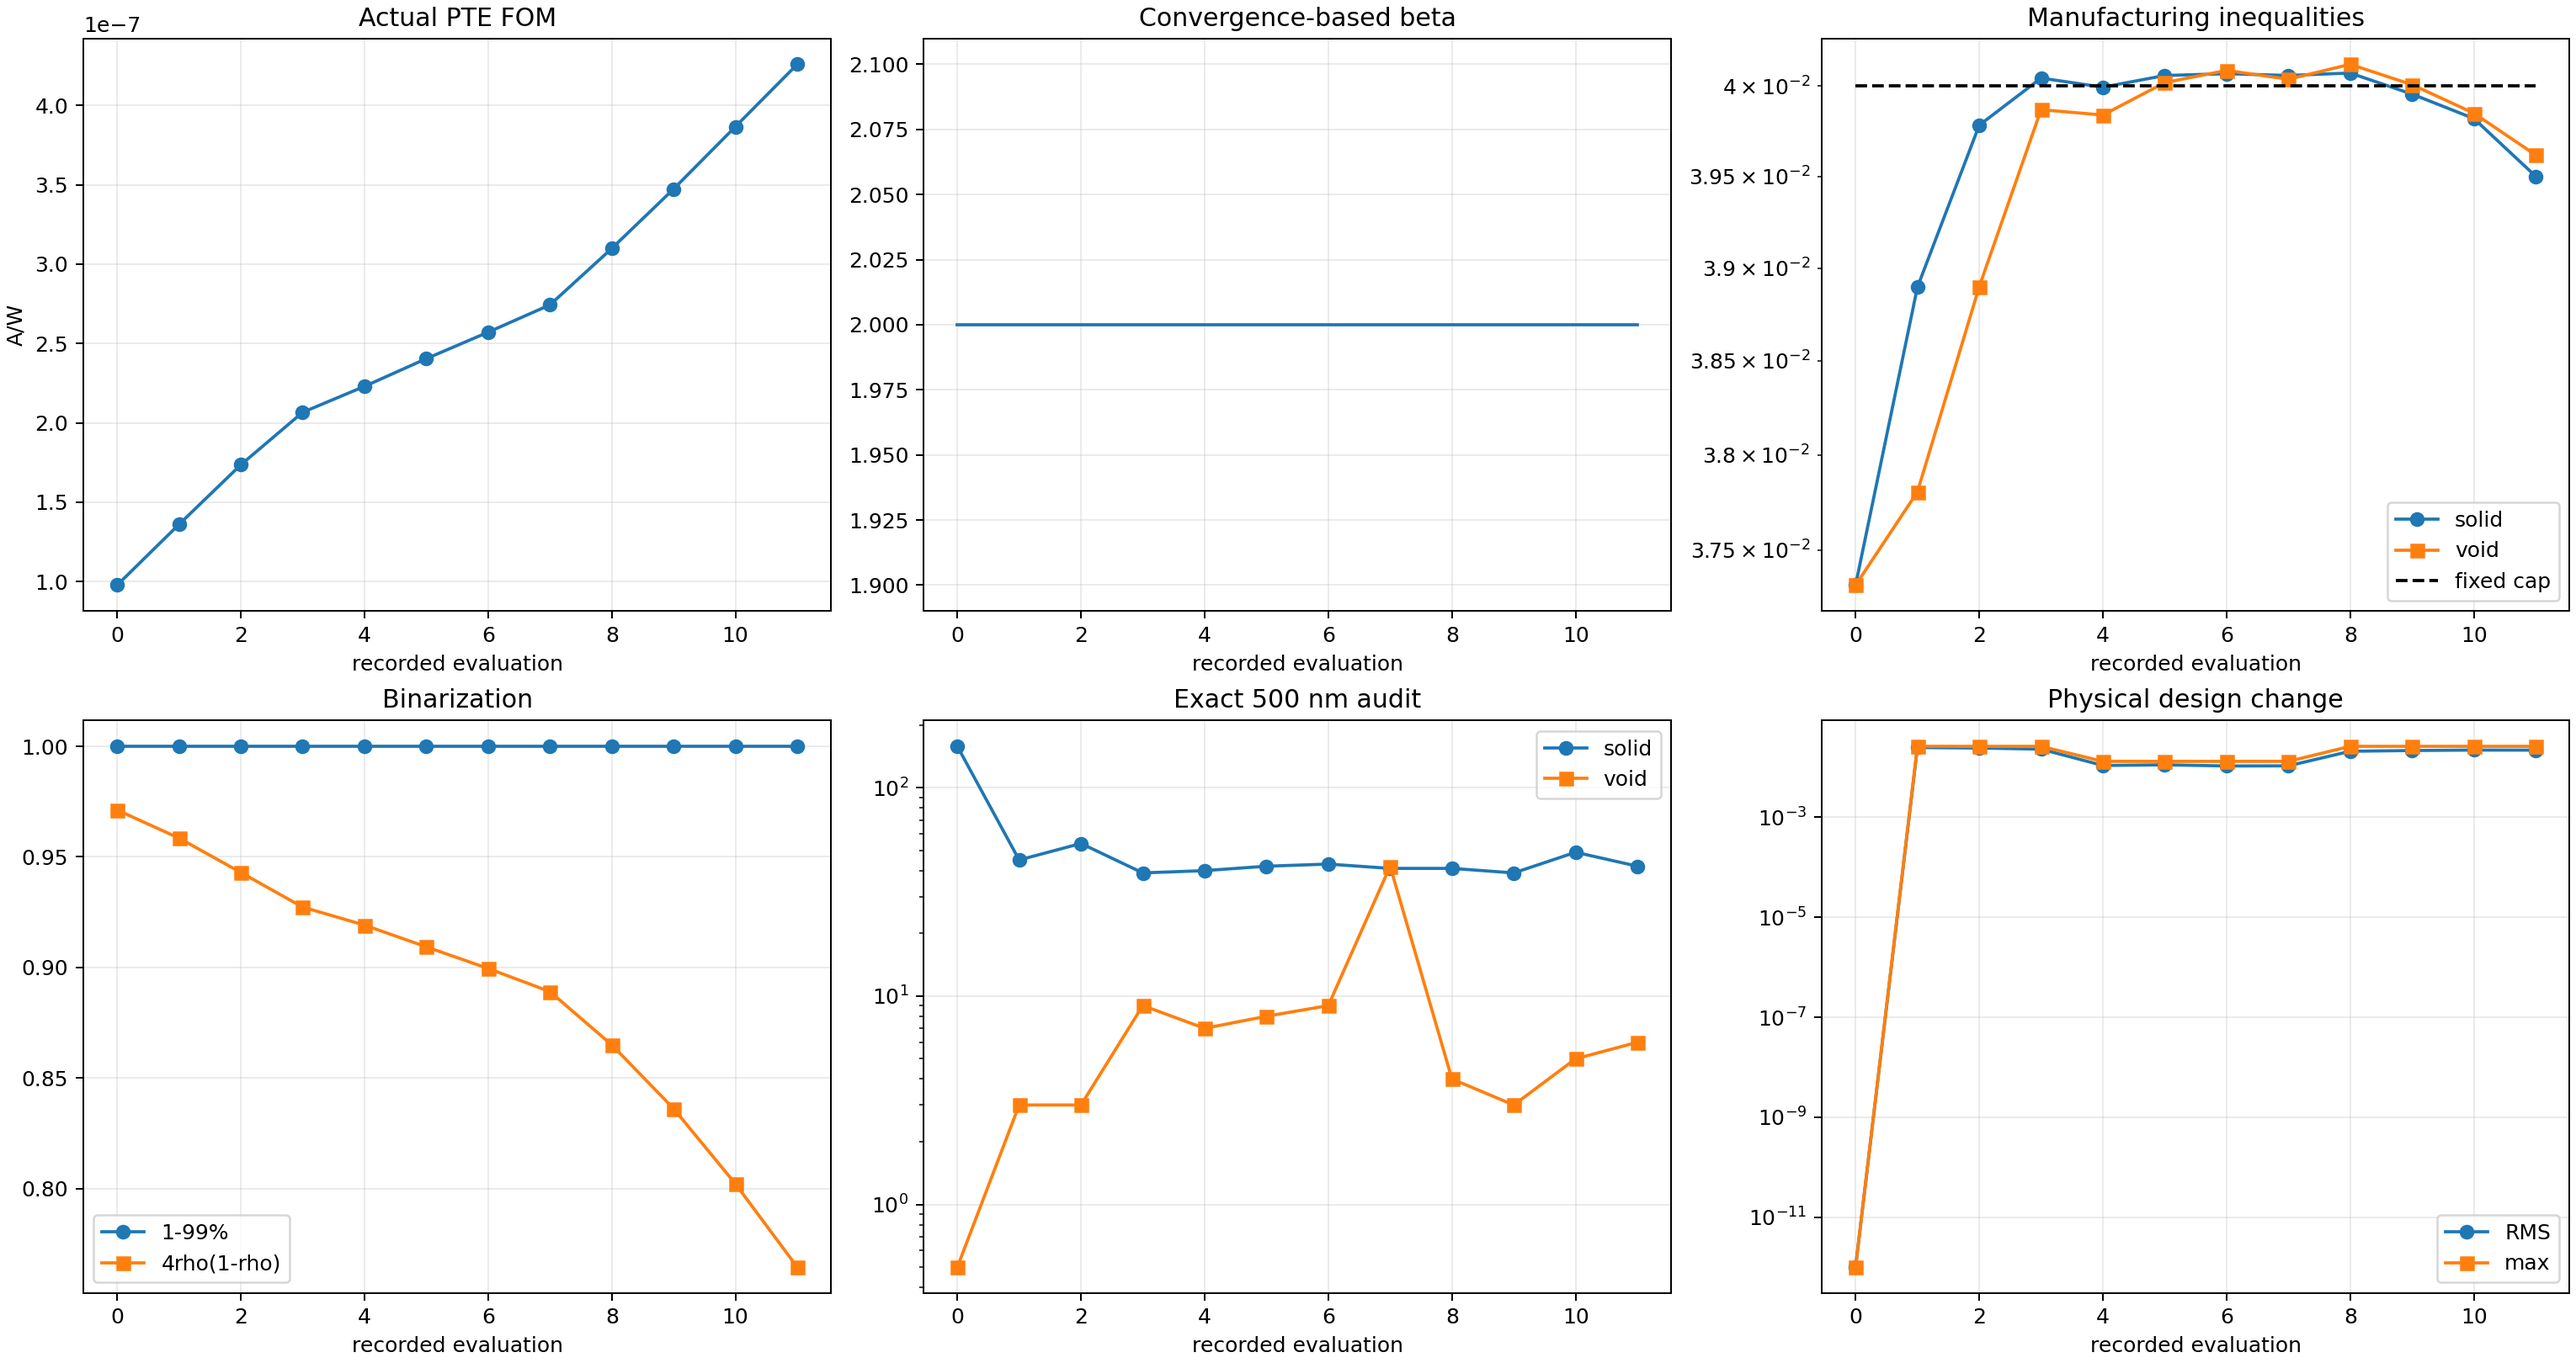
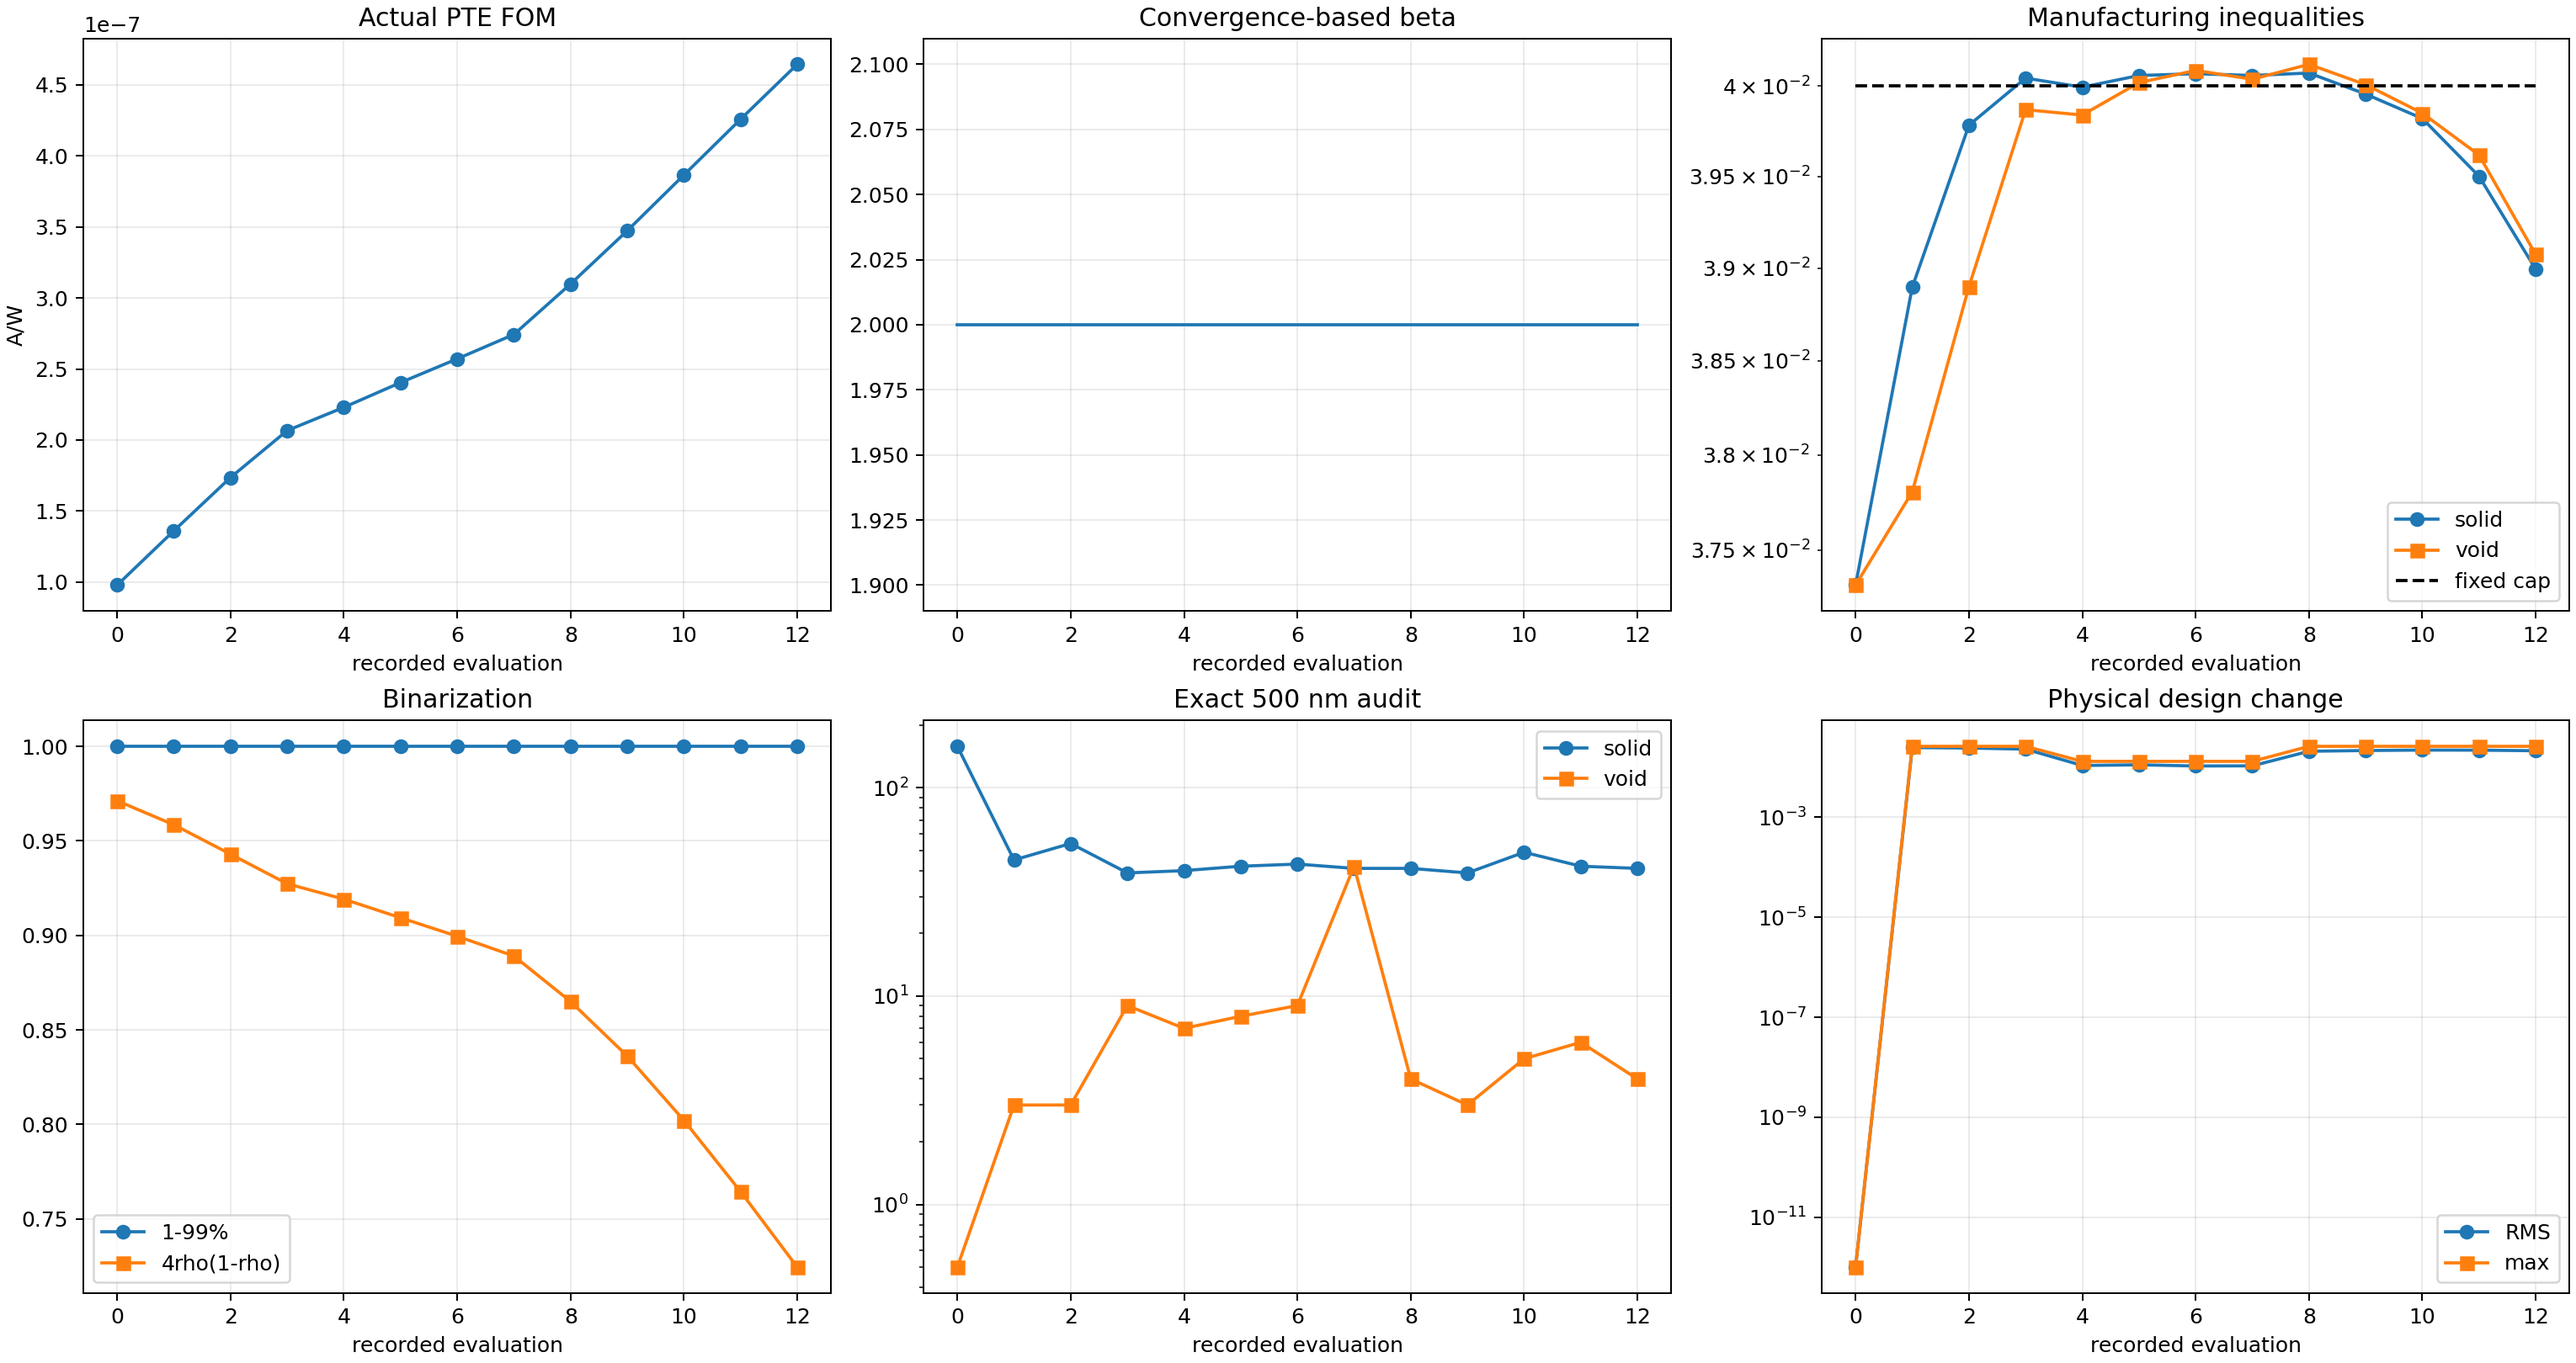
Record Run 003 run003_b002_s012_g012_accepted_mma

diff --git a/photothermal_pte/optimization_runs/run_003_gaussian10_w8p5_current_max_converged/results/OPTIMIZATION_REPORT.md b/photothermal_pte/optimization_runs/run_003_gaussian10_w8p5_current_max_converged/results/OPTIMIZATION_REPORT.md
@@ -2,10 +2,10 @@
 
 Status: `RUNNING_CONVERGENCE_BASED_CONSTRAINED_BETA_CONTINUATION`
 
-Current stage: beta=2, accepted stage iteration=11, global iteration=11.
+Current stage: beta=2, accepted stage iteration=12, global iteration=12.
 
-Actual FOM: `4.258450504784e-07 A/W`. Fixed-cap solid/void constraints: `3.950125e-02` / `3.961815e-02` with cap `4.000000e-02`.
+Actual FOM: `4.645303295594e-07 A/W`. Fixed-cap solid/void constraints: `3.899417e-02` / `3.907408e-02` with cap `4.000000e-02`.
 
-Exact 500 nm bad cells: solid `42`, void `6`. Stage convergence: `False` (recent FOM/density changes have not plateaued).
+Exact 500 nm bad cells: solid `41`, void `4`. Stage convergence: `False` (recent FOM/density changes have not plateaued).
 
 Beta is promoted only after fixed-inequality feasibility and a four-update FOM/design plateau; it is never promoted after one nominal update.
